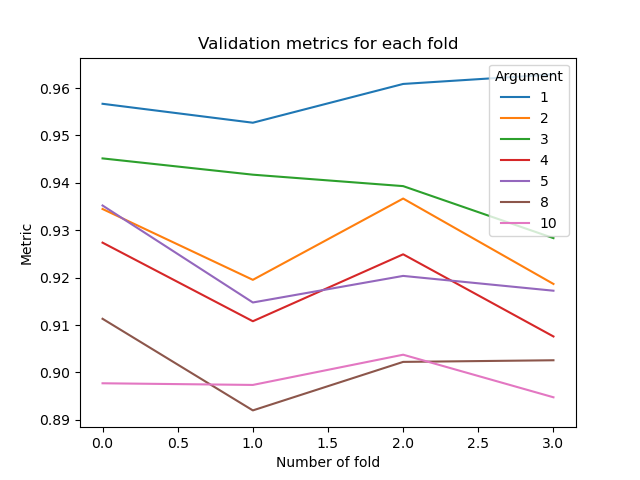
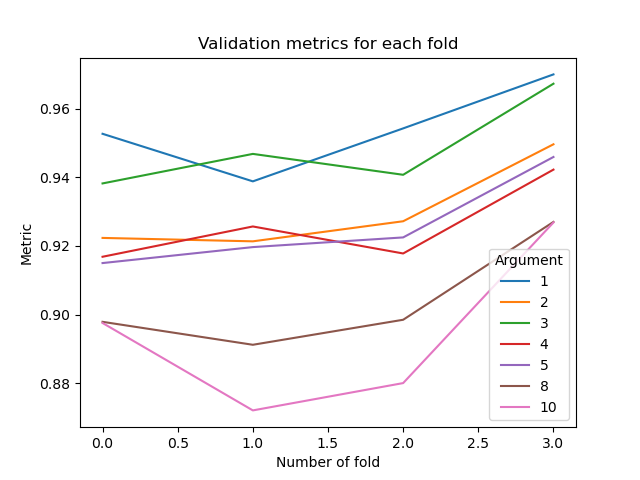
Updated NN architecture (all time best)

diff --git a/362739_362091_362802_project/methods/deep_network.py b/362739_362091_362802_project/methods/deep_network.py
@@ -16,20 +16,13 @@ class SimpleNetwork(nn.Module):
     """
     A network which does classification!
     """
-    def __init__(self, input_size, num_classes, hidden_size=(54, 32)): #84, 32, 20 | best
+    def __init__(self, input_size, num_classes, hidden_size=(86, 34, 18)): # 86, 34, 18 | best
         super(SimpleNetwork, self).__init__()
-        
-        # Concatenate dimensions together
-        # dimens = (input_size,) + hidden_size + (num_classes,)
-        # self.fc = []
-        # for i in range(len(dimens)-1):
-        #     self.fc.append(nn.Linear(dimens[i], dimens[i+1]))
-
 
         self.fc1 = nn.Linear(input_size, hidden_size[0])
         self.fc2 = nn.Linear(hidden_size[0], hidden_size[1])
-        #self.fc3 = nn.Linear(hidden_size[1], hidden_size[2])
-        self.fc3 = nn.Linear(hidden_size[1], num_classes)
+        self.fc3 = nn.Linear(hidden_size[1], hidden_size[2])
+        self.fc4 = nn.Linear(hidden_size[2], num_classes)
 
     def forward(self, x):
         """
@@ -45,8 +38,8 @@ class SimpleNetwork(nn.Module):
         
         x = F.relu(self.fc1(x))
         x = F.relu(self.fc2(x))
-        #x = F.relu(self.fc3(x))
-        output_class = self.fc3(x)
+        x = F.relu(self.fc3(x))
+        output_class = self.fc4(x)
         return output_class
 
 class Trainer(object):
@@ -72,6 +65,7 @@ class Trainer(object):
         "train_one_epoch" (using dataloader_train) and "eval" (using dataloader_val).
         """
         start = time.time()
+        print(f'Started Neural Network training with epochs:{self.epochs}, lr:{self.lr}...')
         for ep in range(self.epochs):
             self.train_one_epoch(dataloader_train, ep)
             self.eval(dataloader_val)
@@ -81,7 +75,7 @@ class Trainer(object):
                 for g in self.optimizer.param_groups:
                     g["lr"] = g["lr"]*0.8
         end = time.time()
-        print(f'Neural Network Training Runtime |> {end-start}s')
+        print(f'\nNeural Network Training Runtime |> {end-start}s')
 
 
     def train_one_epoch(self, dataloader, ep=0):
@@ -114,7 +108,7 @@ class Trainer(object):
             # Zero-out the accumulated gradients.
             self.optimizer.zero_grad()
 
-        self.message = 'Ep {}/{}: loss train: {:.2f}, accuracy train: {:.2f},'.format(
+        self.message = '--> Ep {}/{}: loss train: {:.2f}, accuracy train: {:.2f},'.format(
                 ep + 1, self.epochs, loss, accuracy_fn(tdecode(logits).numpy(), y.numpy()))
 
     def eval(self, dataloader):

diff --git a/362739_362091_362802_project/main.py b/362739_362091_362802_project/main.py
@@ -68,6 +68,7 @@ def main(args):
         trainer.train_all(train_dataloader, val_dataloader)
         print("Final evaluation metrics ==> ")
         results_class = trainer.eval(test_dataloader)
+        print("\n")
         torch.save(results_class, "results_class.txt")
     
     # classical ML methods (MS1 and MS2)
@@ -88,13 +89,13 @@ def main(args):
         
         elif args.method_name == 'logistic_regression':
             method_obj = LogisticRegression(lr= args.lr, max_iters= args.max_iters)
-            search_arg_vals = [1e-2, 1e-3, 1e-4, 5e-5, 1e-5]
+            search_arg_vals = [1e-3, 1e-4, 5e-5, 1e-5, 1e-6]
             search_arg_name = "lr"
         
         elif args.method_name == 'ridge_regression':
             method_obj = LinearRegression(lmda= args.ridge_regression_lmda)
             train_labels = train_regression_target
-            search_arg_vals = [0, 0.1, 1, 10, 100, 150, 500]
+            search_arg_vals = [0, 0.1, 1, 10, 100, 150, 500, 1000]
             search_arg_name = "lmda"
         
         elif args.method_name == 'knn':
@@ -116,7 +117,7 @@ def main(args):
         # Report test results
         if method_obj.task_kind == 'regression':
             loss = mse_fn(pred_labels,test_regression_target)
-            print("Final loss is", loss)
+            print("Final MSE loss is", loss)
         else:
             acc = accuracy_fn(pred_labels,test_labels)
             print("Final classification accuracy is", acc)
@@ -133,7 +134,7 @@ if __name__ == '__main__':
     parser.add_argument('--knn_neighbours', default=3, type=int, help="number of knn neighbours")
     parser.add_argument('--lr', type=float, default=1e-4, help="learning rate for methods with learning rate")
     parser.add_argument('--ridge_regression_lmda', type=float, default=150, help="lambda for ridge regression")
-    parser.add_argument('--max_iters', type=int, default=1000, help="max iters for methods which are iterative")
+    parser.add_argument('--max_iters', type=int, default=500, help="max iters for methods which are iterative")
     parser.add_argument('--use_cross_validation', action="store_true", help="to enable cross validation")
 
     # Feel free to add more arguments here if you need

diff --git a/362739_362091_362802_project/methods/logistic_regression.py b/362739_362091_362802_project/methods/logistic_regression.py
@@ -40,7 +40,7 @@ class LogisticRegression(object):
         elif len(args) > 1:
             self.max_iters = args[1]
         else:
-            self.max_iters = 1000
+            self.max_iters = 400
 
     def f_softmax(self, data, w):
         """ Softmax function
@@ -126,7 +126,7 @@ class LogisticRegression(object):
             """
             # Compute current accuracy - keep track of previous accuracy
             acc = self.accuracy_fn(training_labels, predictions) # change for temp
-            # # check accurancy improvement, break if no significant change in the accuracy
+            # # check accuracy improvement, break if no significant change in the accuracy
             # if (abs(temp-acc) <= 1e-20):
             #     break
             # else:

diff --git a/362739_362091_362802_project/methods/cross_validation.py b/362739_362091_362802_project/methods/cross_validation.py
@@ -1,6 +1,7 @@
 import numpy as np
 from metrics import accuracy_fn, mse_fn, macrof1_fn
 import matplotlib.pyplot as plt
+import time
 
 def splitting_fn(data, labels, indices, fold_size, fold):
     """
